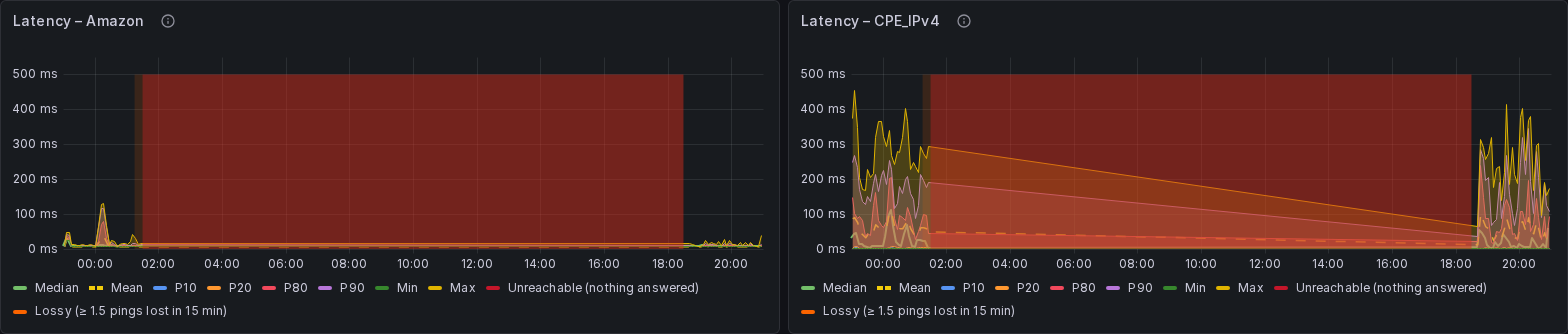
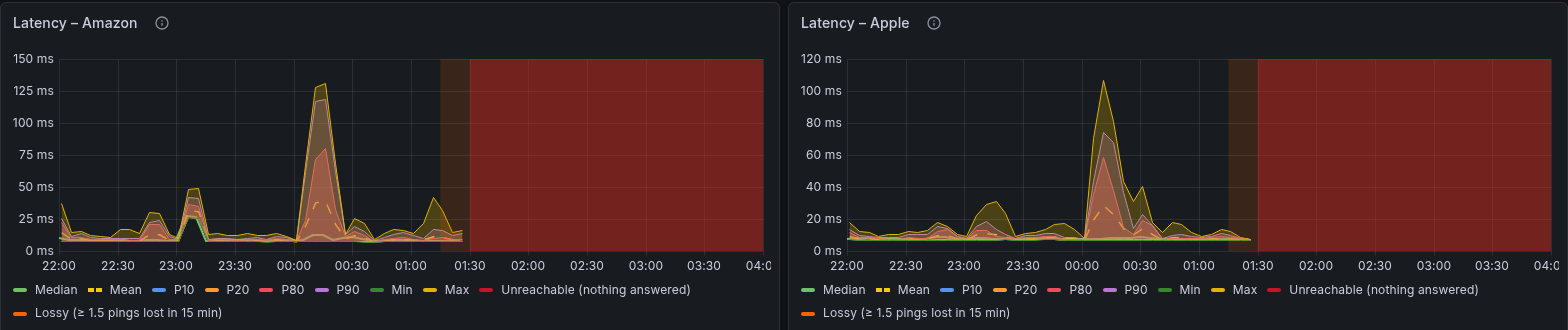
fix(grafana): DNS dashboards audit — overlays keep the latency scale, ClickHouse draws the median
The Unreachable/Lossy overlays were 500 ms bars on the latency axis, so
one marked window flattened every per-target latency panel; they now sit
on a hidden 0–1 scale (DNS Resolvers, Individual Pings, Side by Side and
the ClickHouse twins). The ClickHouse DNS Resolvers dashboard drew the
mean twice and never the median. DNS Wizard: log scale for the
per-protocol median, HTTP thresholds of their own, service links to
Target Detail, ordered legends, uncut stat titles, US spelling.

This commit carries review-only before/after images (docs/img/review-dns-*)
for the PR body; the next commit removes them.

diff --git a/CHANGELOG.md b/CHANGELOG.md
@@ -11,6 +11,32 @@ version gets a matching GitHub release and git tag.
 
 ### Fixed
 
+- **One lossy window flattened the latency panel it marked.** The
+  *Unreachable* and *Lossy* overlays on every per-target latency panel
+  (DNS Resolvers, Individual Pings, Side by Side and the ClickHouse
+  twins) were bars 500 ms tall on the latency axis, so a single marked
+  15-minute window stretched a panel of 10–50 ms lines to 500 ms and
+  flattened exactly the period someone opened it to look at. The bars now
+  sit on a hidden 0–1 scale of their own: they still fill the panel's
+  height, and the latency axis keeps the latency's range.
+- **The ClickHouse DNS Resolvers dashboard drew the mean twice and never
+  the median.** Its solid line and its dashed *Mean* line were both
+  `avg(avg_latency)`, so the one line the InfluxDB version leads with was
+  missing although `median_latency` is in the table. The solid line is
+  the median again. An unused *Status* variable (a PostgreSQL query no
+  panel read) and a hardcoded list of the three seeded resolvers for
+  *All* are gone.
+- **DNS dashboards, the smaller things a panel-by-panel audit found.** The
+  packet-loss legend read `loss {category="dns", probe_type="dns",
+  target=…}` and is now *Loss*, with a description. On DNS Wizard: the
+  per-protocol median is on a logarithmic scale (ICMP and TCP, about
+  9 ms, lay flat at zero under HTTP's 130 ms); the latest-median table
+  colors HTTP at 300 ms / 1 s instead of ICMP's 80 / 200 ms, which had
+  painted every HTTP cell orange; a service in either table links to its
+  Target Detail; the legends run top 5, 10, 20 and services, CDNs,
+  networks instead of alphabetically; three stat titles no longer cut off
+  at 1600 px; and the header says *summarizes*.
+
 - **The seed's `uba_ar` target is labeled for what it measures.** Its
   host, `uba.ar`, resolves to Imperva's anycast CDN, so the probe reaches
   the nearest Imperva edge (a few milliseconds away) and never Buenos

diff --git a/docs/dns-observer.md b/docs/dns-observer.md
@@ -449,11 +449,19 @@ targets would read as "down". The alerter, the daily digest and the
 assistant leave the `dns_wizard` category out, and so do the target pickers
 of the other dashboards. The DNS Wizard dashboard shows them:
 
-- the median latency per protocol across the adopted services;
-- the latest median and loss per service and protocol.
+- the median latency per protocol across the adopted services, on a
+  logarithmic scale so ICMP's few milliseconds stay readable under HTTP's
+  hundred or more;
+- the latest median and loss per service and protocol. Median colors
+  follow each protocol: ICMP and TCP turn orange at 80 ms and red at
+  200 ms, HTTP (which includes TLS and the server's answer) at 300 ms and
+  1 s. Click a service for its Target Detail, every layer of it.
 
-Both look at the last 30 minutes only, so a target that stops reporting
-drops out of the tables by itself.
+The chart follows the dashboard's time range; the tables look at the last
+30 minutes only, so a target that stops reporting drops out of them by
+itself.
+
+![DNS Wizard: per-protocol median of the adopted services on a log scale, and the latest median and loss per service, each service a link to its Target Detail](img/dns-wizard-services.png)
 
 ### How fast the house's queries resolve
 

diff --git a/docs/alerting.md b/docs/alerting.md
@@ -989,7 +989,11 @@ from one to the other, and a lone mark was as wide as Grafana's guess.
 That is the "Downtime" block over hours of good measurements that
 prompted the change. A window with no measurements at all (SmokePing
 stopped, the exporter behind) is left blank in both overlays: no data is
-not nothing answered. The overlays stay out of the tooltip.
+not nothing answered. The overlays stay out of the tooltip, and they
+draw on a hidden scale of their own, from 0 to 1, so a marked window fills
+the panel's height without touching the latency axis. Until 2026-10-16 a
+marked window was a bar 500 ms tall on that axis: one lossy window
+stretched a panel of 10 ms resolver lines to 500 ms and flattened them.
 
 ![Before: the old "Downtime" overlay over the staging Pi's 17-hour radio hang, drawn in the palette's blue, every bar a guess wide](img/latency-overlay-before.png)
 
